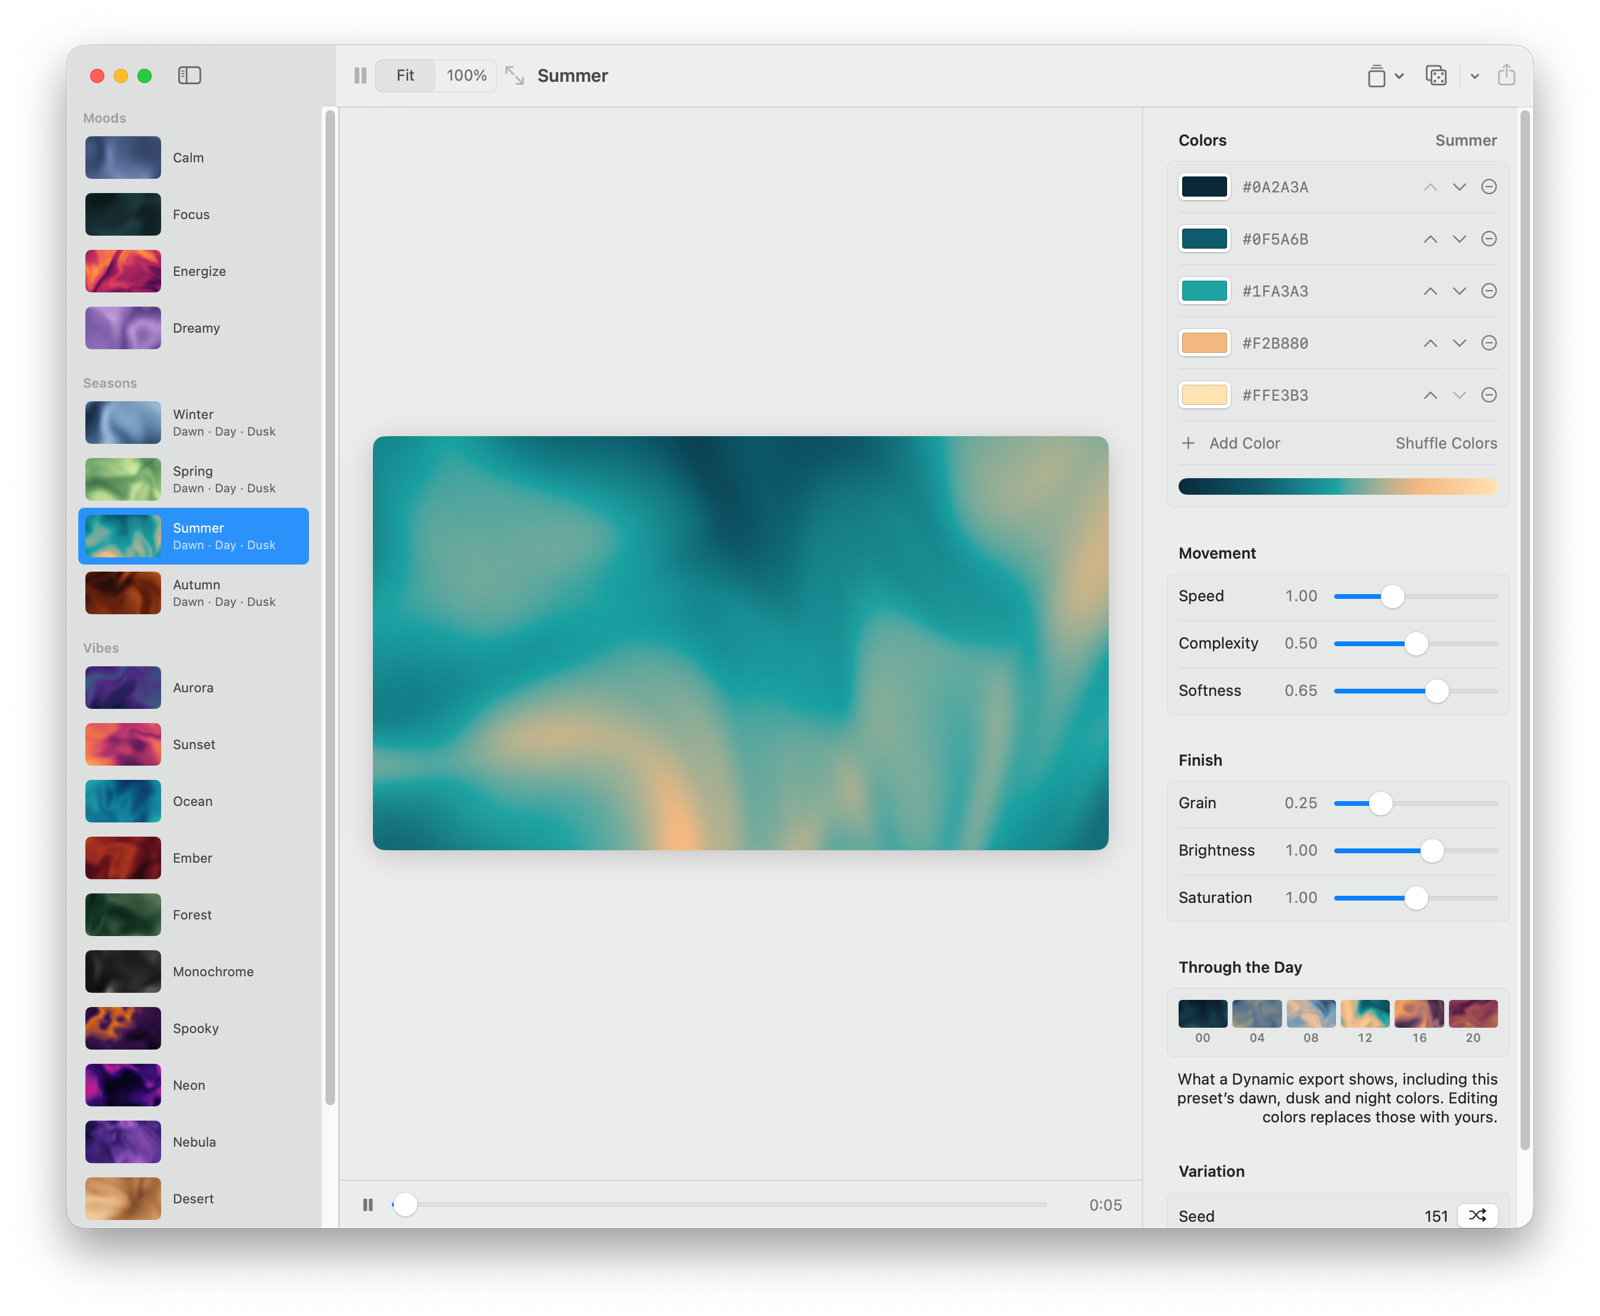
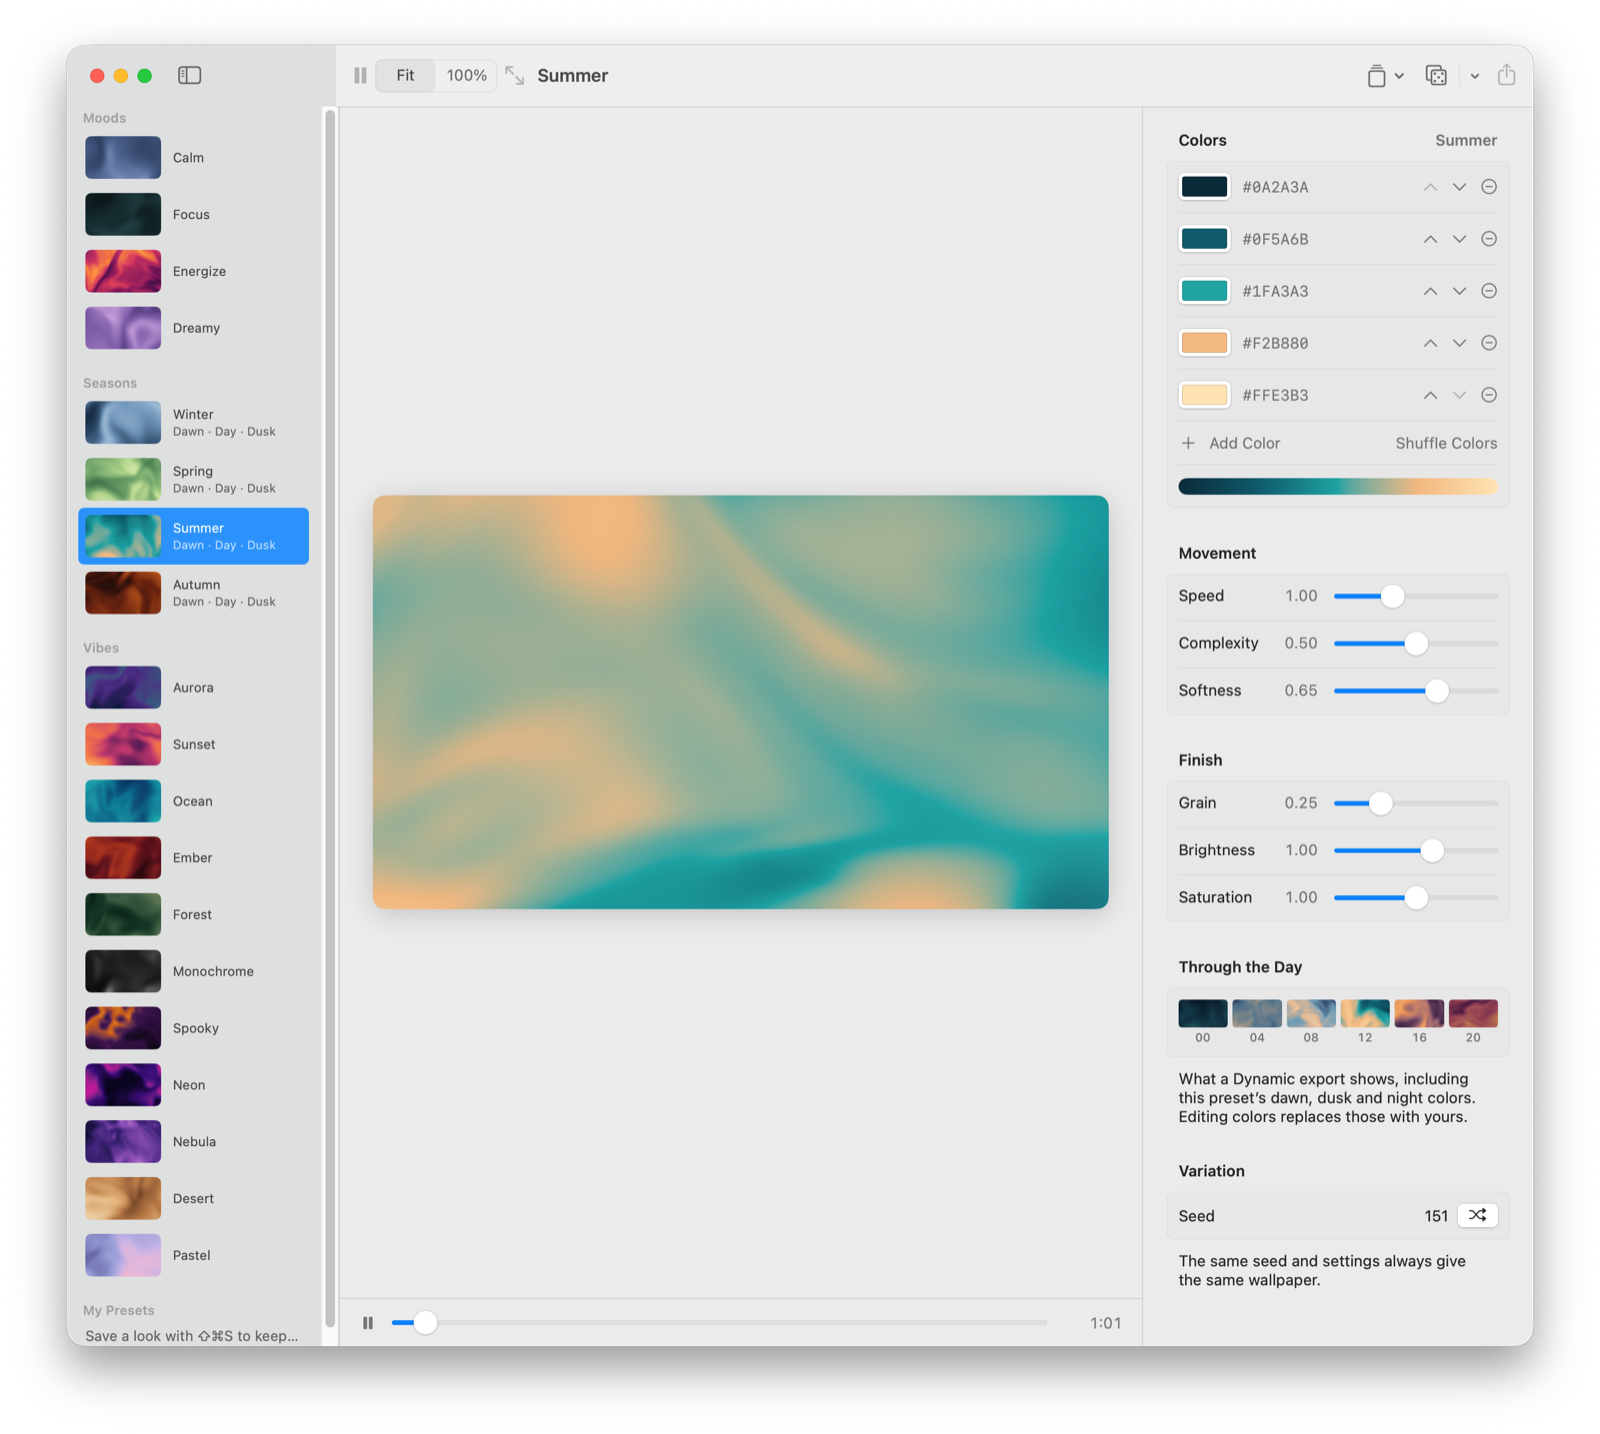
Left-align inspector section footers; refresh README screenshot
Grouped-form footers are trailing-aligned on macOS. The "Through the Day"
and "Variation" explanations now read left-aligned, inset to line up with
their section headers. The README screenshot is retaken to match.

diff --git a/Gloaming/App/InspectorView.swift b/Gloaming/App/InspectorView.swift
@@ -28,7 +28,7 @@ struct InspectorView: View {
             } header: {
                 Text("Through the Day")
             } footer: {
-                Text(model.look.dayArc.hasPaletteOverrides
+                SectionFooter(model.look.dayArc.hasPaletteOverrides
                      ? "What a Dynamic export shows, including this preset’s dawn, dusk and night colors. Editing colors replaces those with yours."
                      : "What a Dynamic export shows: dimmer at night, brightest at noon.")
             }
@@ -48,10 +48,24 @@ struct InspectorView: View {
             } header: {
                 Text("Variation")
             } footer: {
-                Text("The same seed and settings always give the same wallpaper.")
+                SectionFooter("The same seed and settings always give the same wallpaper.")
             }
         }
         .formStyle(.grouped)
+    }
+}
+
+/// Grouped-form footers are trailing-aligned on macOS; the inspector reads left to right,
+/// so its explanations are left-aligned like everything else.
+private struct SectionFooter: View {
+    let text: String
+    init(_ text: String) { self.text = text }
+
+    var body: some View {
+        Text(text)
+            .multilineTextAlignment(.leading)
+            .padding(.horizontal, 10)                  // line up with the section header
+            .frame(maxWidth: .infinity, alignment: .leading)
     }
 }
 
